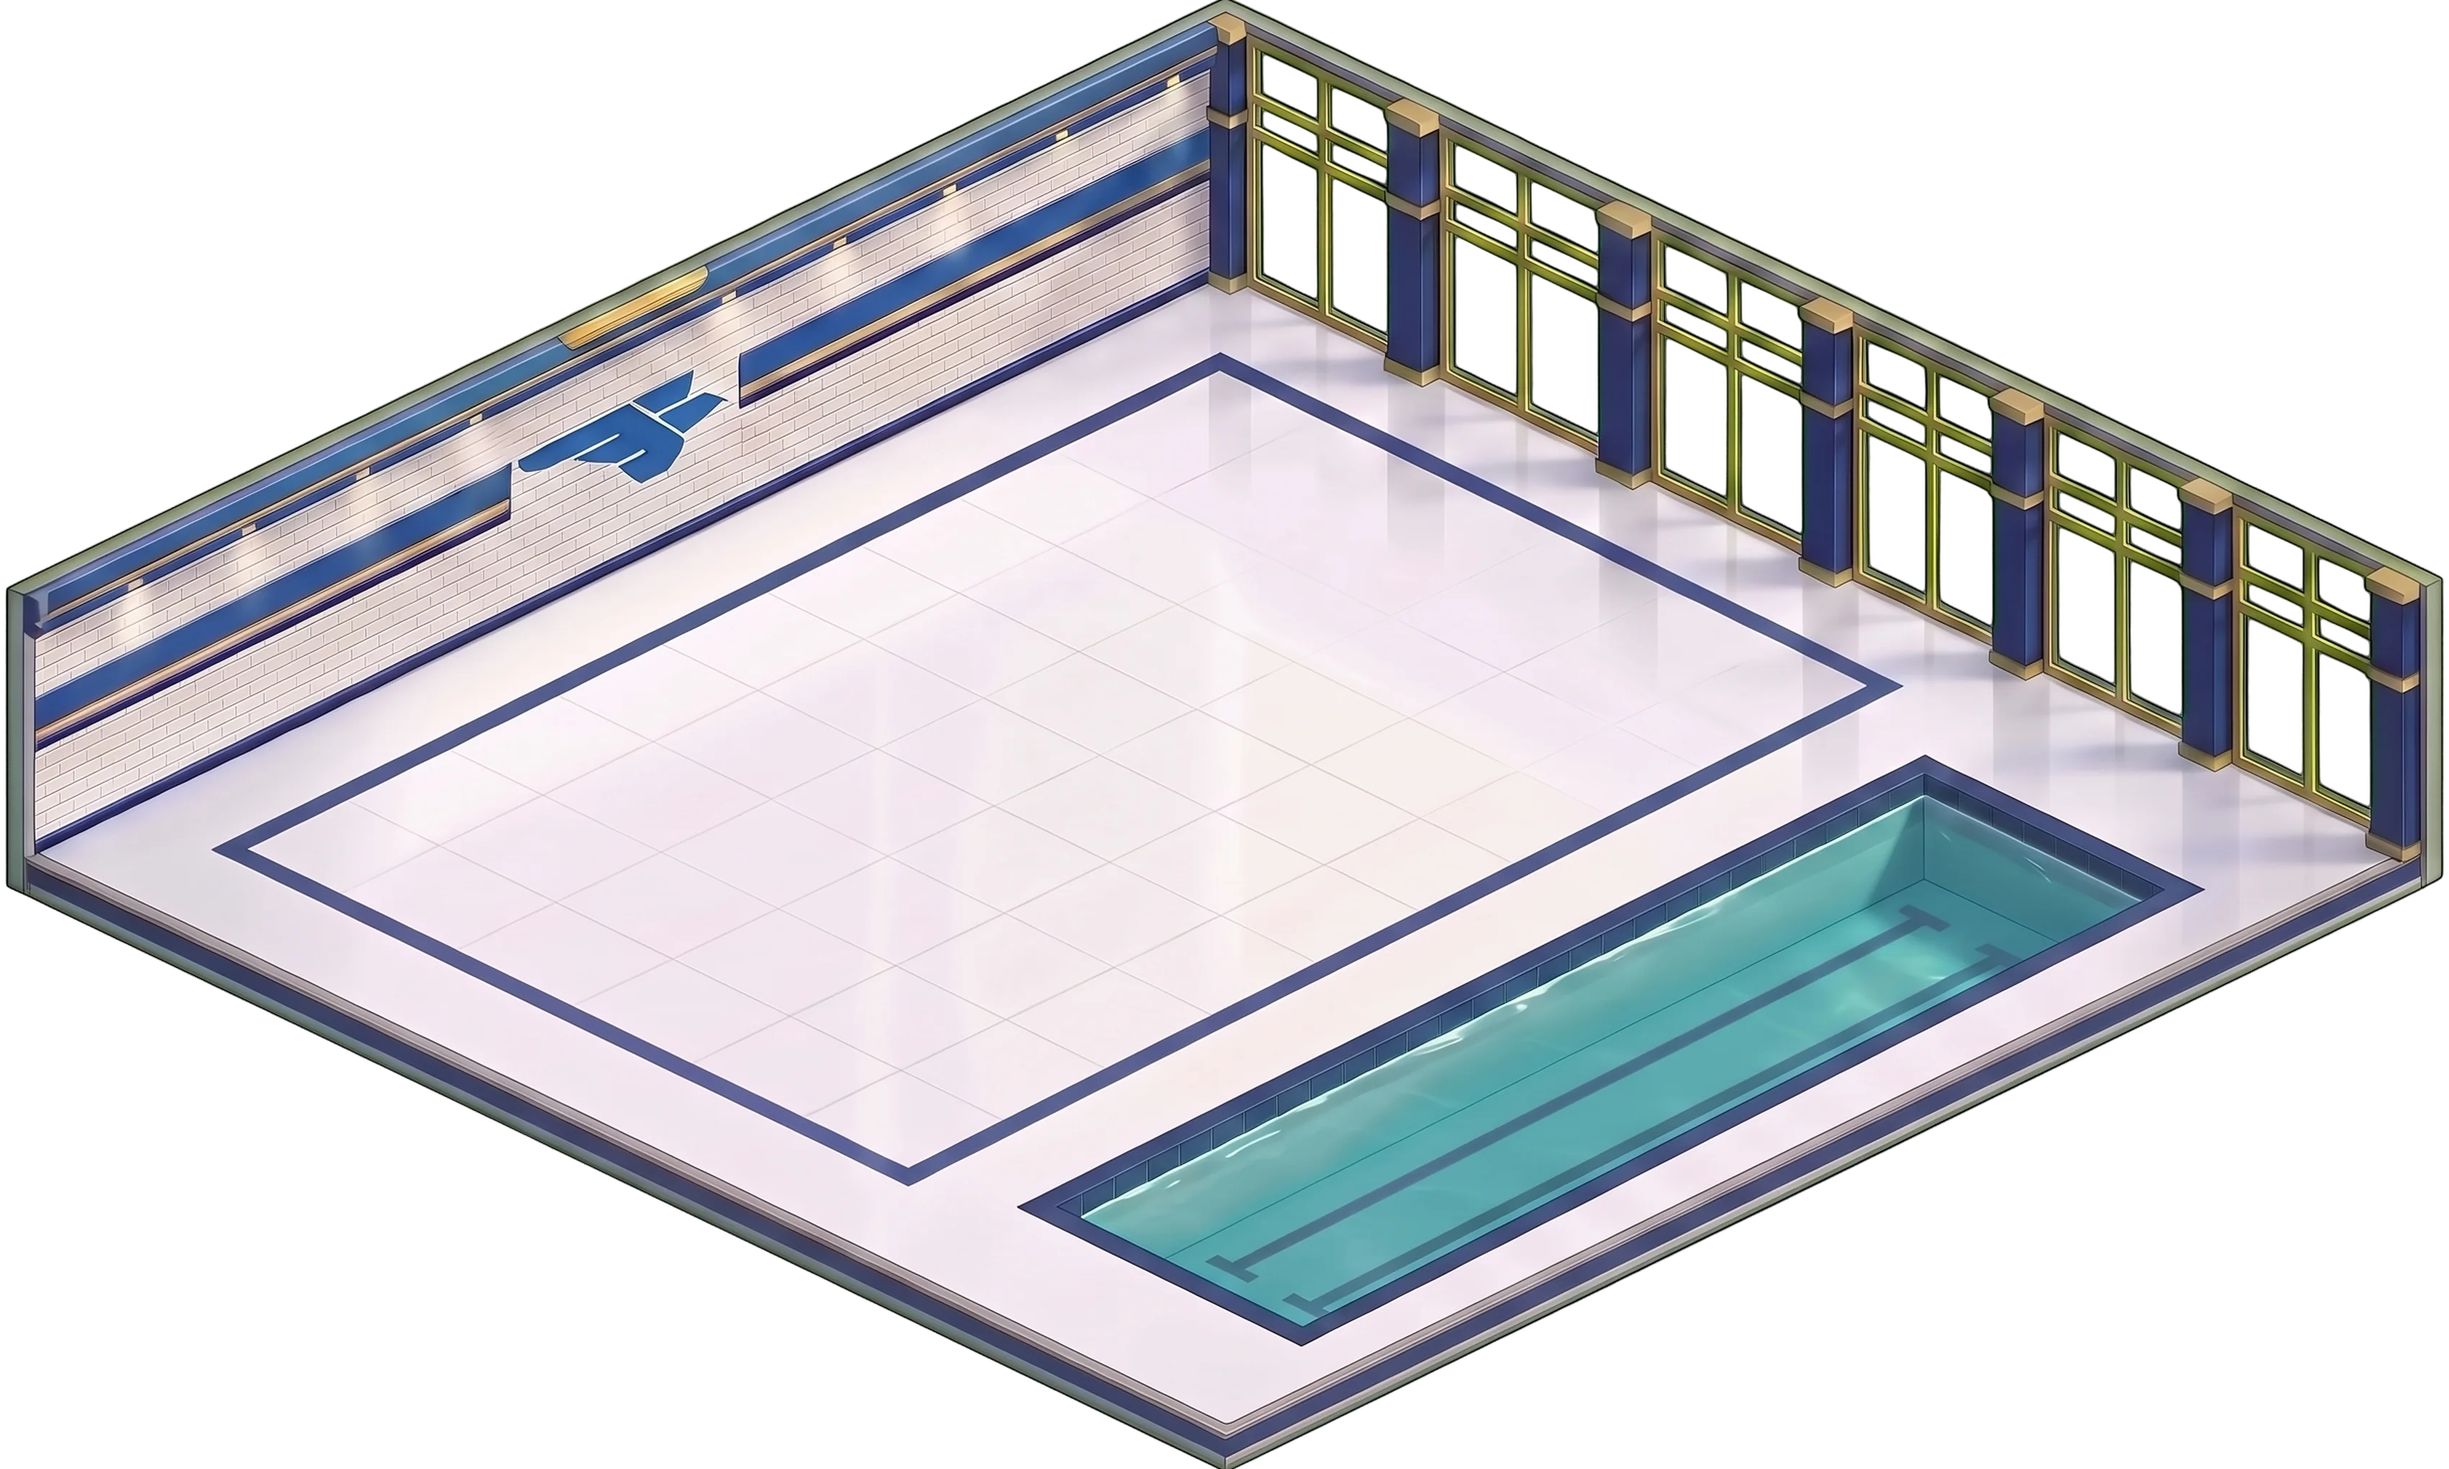
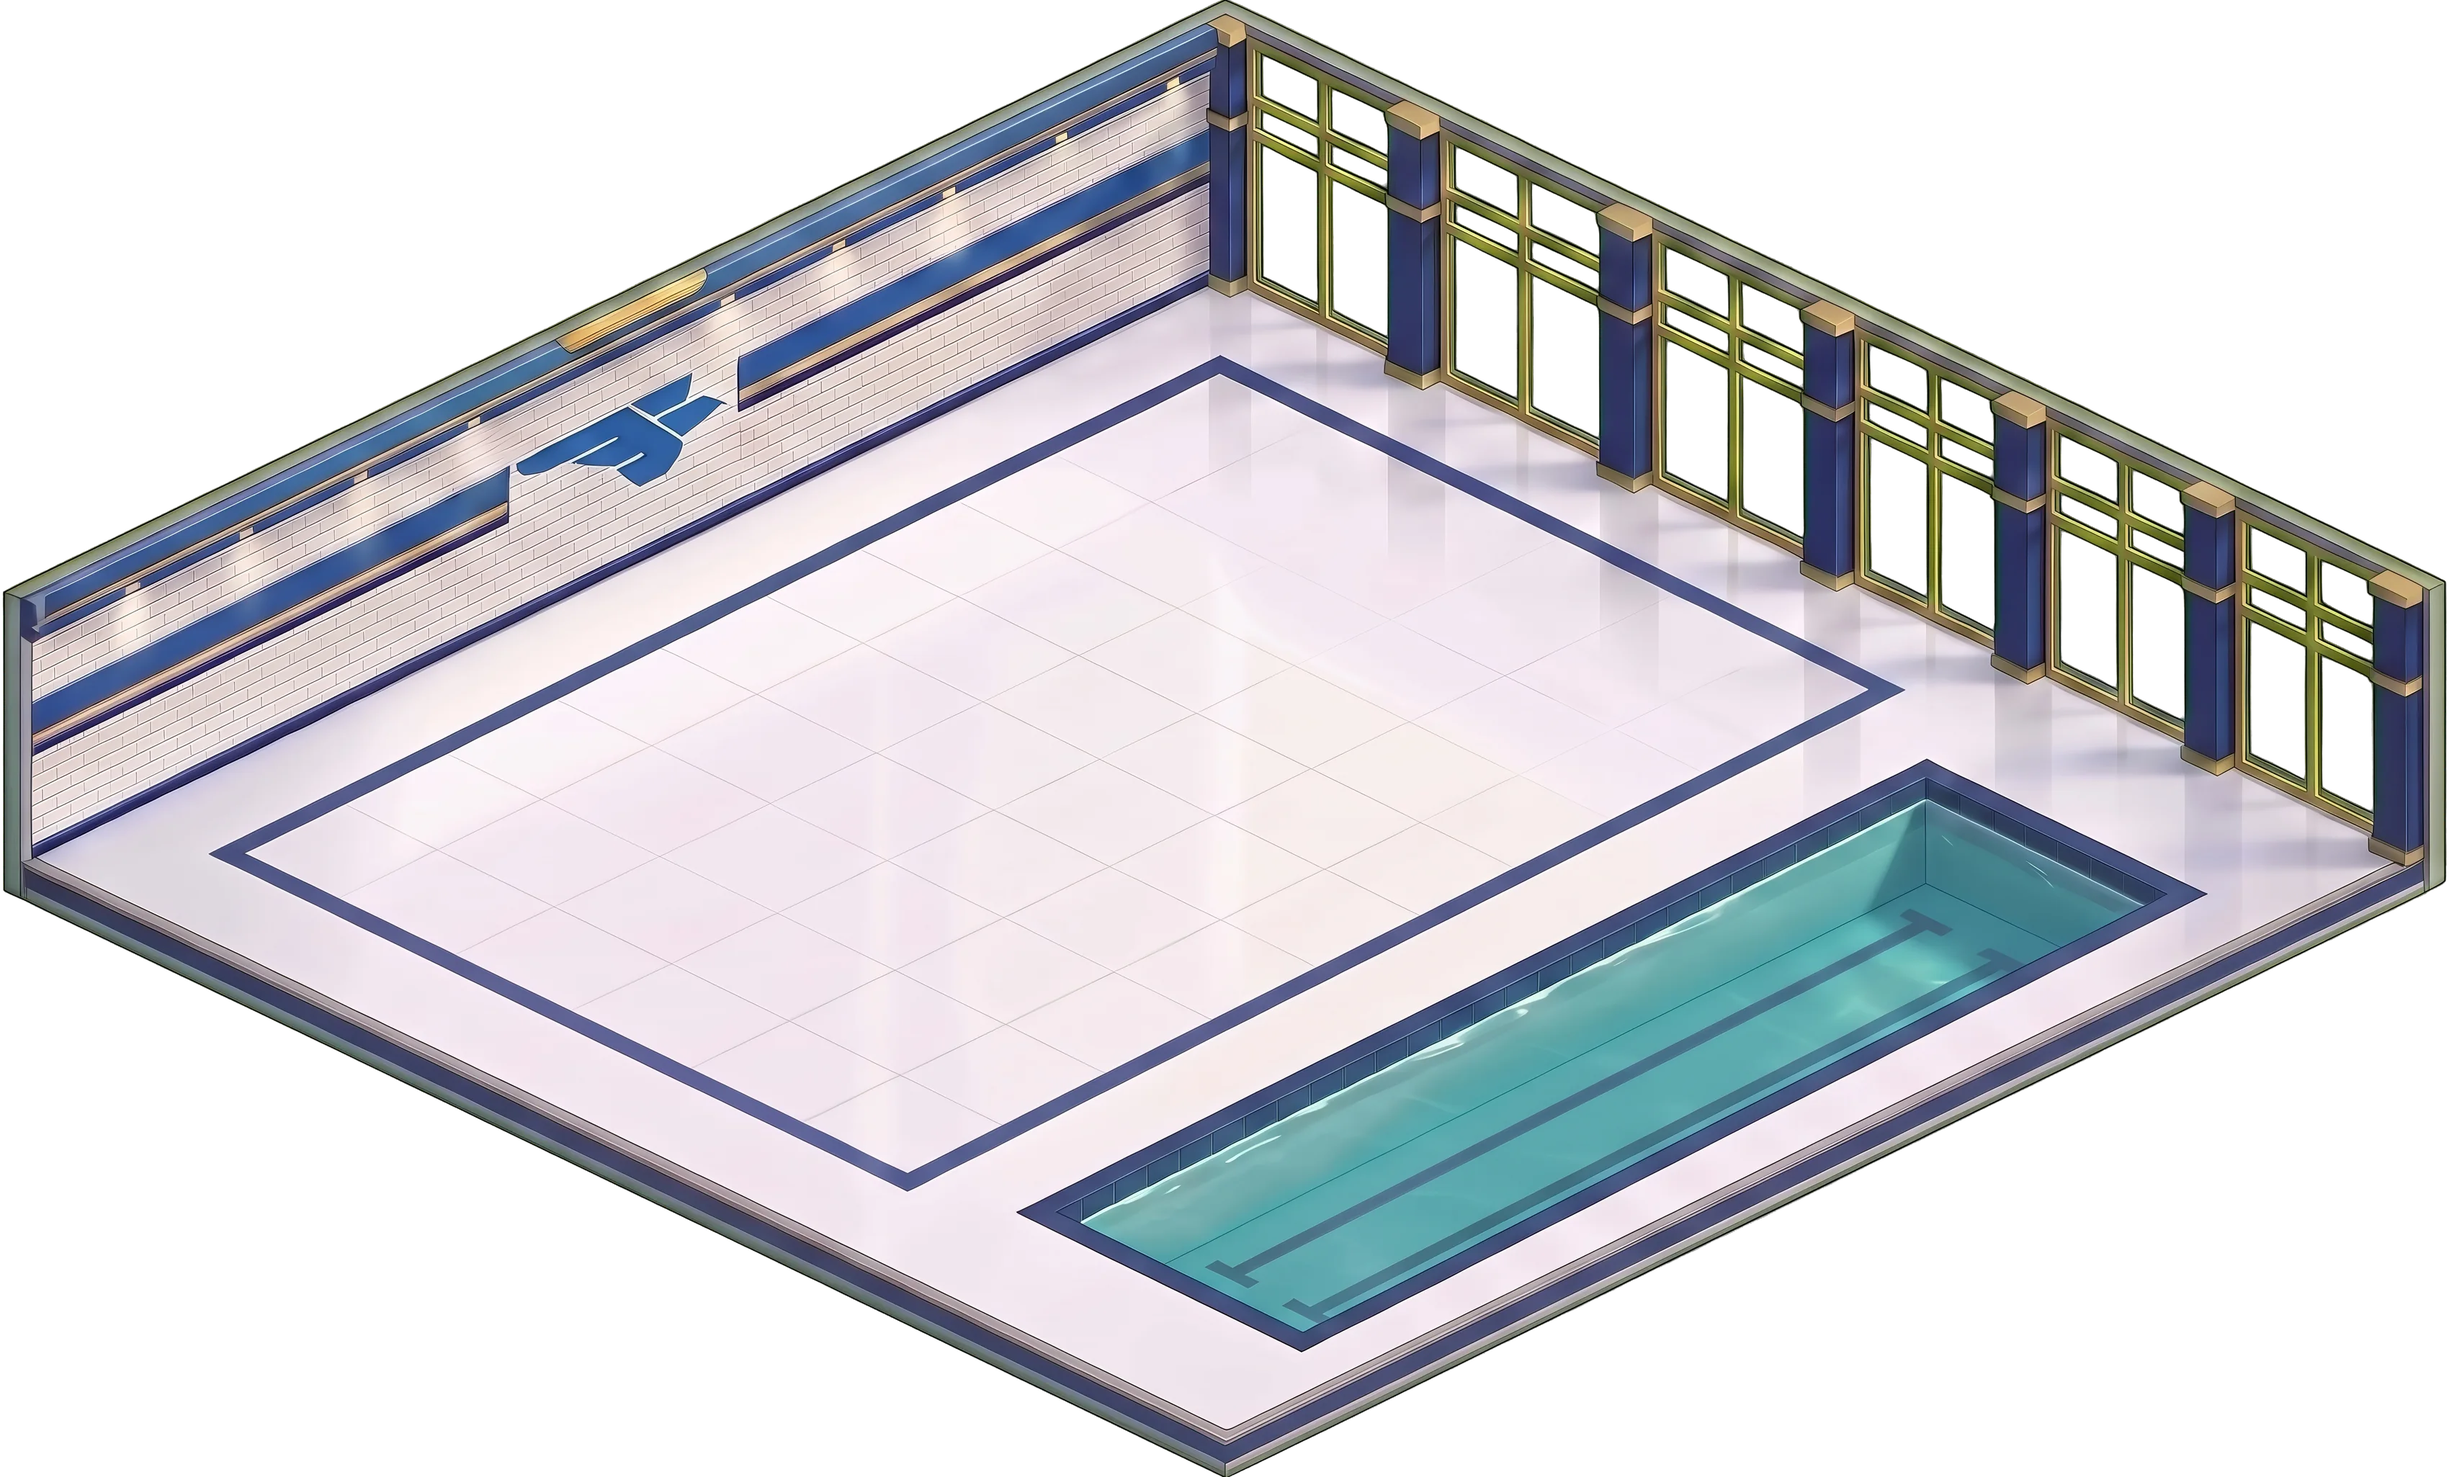
Open the 32 x 32 upgrade for every room to admins
The gym, bike, run and pool now go through the same 16 x 16 and 32 x 32
steps as the locker, using their level 10 pictures. Only admins and the
demo are offered them until all their levels exist.

The pool's picture is the new upscaled one. The cutting script now picks
level 10 by name, since a room's folder can hold several levels.

diff --git a/tests/expansions-sql.test.js b/tests/expansions-sql.test.js
@@ -7,7 +7,7 @@ import { test } from 'node:test';
 import assert from 'node:assert/strict';
 import { readFileSync, readdirSync } from 'node:fs';
 import { fileURLToPath } from 'node:url';
-import { EXPANSION_RULES, expansionReady, isExpanded, expandedSize, nextExpansion, EXPANDED_ART } from '../js/core/expansions.js';
+import { EXPANSION_RULES, expansionReady, isExpanded, expandedSize, nextExpansion, EXPANDED_ART, onSale } from '../js/core/expansions.js';
 import { stageGeom, roomPlacement, roomPctToWorld, envFor } from '../js/core/diorama.js';
 import { ROOM_GEOMETRY } from '../js/core/placement.js';
 import { walletFold } from '../js/core/wallet.js';
@@ -47,13 +47,12 @@ test('the rules: SQL and JS agree', { skip }, async () => {
   assert.deepEqual((await db.query('select public.expansion_rules() as r')).rows[0].r, EXPANSION_RULES);
 });
 
-test('expanding: a ready room once, for its price; the others coming soon', { skip }, async () => {
+test('expanding: a ready room once, for its price', { skip }, async () => {
   const poor = await freshDb(0);
   assert.equal(await code(buy(poor, 'locker')), 'insufficient');
   const db = await freshDb(2000);
   const before = await coins(db);
   assert.equal(await code(buy(db, 'attic')), 'unknown_room');
-  assert.equal(await code(buy(db, 'gym')), 'coming_soon');
   assert.equal(await code(buy(db, 'locker')), 'ok');
   assert.equal(await coins(db), before - EXPANSION_RULES.cost);
   assert.equal(await code(buy(db, 'locker')), 'owned');
@@ -80,17 +79,30 @@ test('how big a room is, and what comes next', () => {
   assert.deepEqual(nextExpansion([], 'locker'), { size: 16, cost: EXPANSION_RULES.cost });
   assert.deepEqual(nextExpansion(r16, 'locker'), { size: 32, cost: EXPANSION_RULES.cost32 });
   assert.equal(nextExpansion(r32, 'locker'), null);
-  assert.equal(nextExpansion([], 'pool'), null);
+  assert.deepEqual(nextExpansion([], 'pool'), { size: 16, cost: EXPANSION_RULES.cost });
 });
 
 test('the JS side: ready rooms, owned rooms, the wallet', () => {
-  assert.ok(expansionReady('locker') && !expansionReady('pool'));
+  assert.ok(expansionReady('locker') && expansionReady('pool'));
+  assert.ok(onSale('locker') && !onSale('pool') && onSale('pool', true), 'players wait for the full set of levels; admins can try it');
   assert.ok(isExpanded([{ room: 'locker' }], 'locker') && !isExpanded([], 'locker'));
   for (const r of EXPANSION_RULES.ready) assert.ok(EXPANDED_ART[r], r);
   const at = new Date().toISOString();
   const base = walletFold({});
   const after = walletFold({ expansions: [{ room: 'locker', cost: EXPANSION_RULES.cost, bought_at: at }] });
   assert.equal(base.coins - after.coins, EXPANSION_RULES.cost);
+});
+
+test('a sport room expands through the same three stages, its water staying out of the way', () => {
+  assert.equal(stageGeom('pool'), 'pool');
+  assert.equal(stageGeom('pool', 16), 'pool-16');
+  assert.equal(stageGeom('pool', 32), 'pool-32');
+  assert.equal(stageGeom('pool', false, true), 'pool-16-tape');
+  assert.equal(ROOM_GEOMETRY['pool-16'].limit, 16);
+  assert.equal(ROOM_GEOMETRY['pool-16-tape'].limit, 8);
+  assert.equal(ROOM_GEOMETRY['pool-32'].limit, undefined);
+  assert.equal(ROOM_GEOMETRY['pool-32'].cols, 32);
+  assert.ok(ROOM_GEOMETRY['pool-32'].blocked.length, 'the water is still blocked');
 });
 
 test('the expanded locker fills its roof inside the railing, centred on it, the tape marking what you own', () => {

diff --git a/js/core/expansions.js b/js/core/expansions.js
@@ -2,19 +2,26 @@
 //
 // Every room starts as the painted 8 × 8 room in the middle of its floor's roof. Expanding it buys
 // the 32 × 32 picture that fills the whole roof, taped off to its back 16 × 16; the last step takes
-// the tape away. Each is bought once per room, for good. Only the locker room has its picture so
-// far; the others say "coming soon".
+// the tape away. Each is bought once per room, for good. Every room has a picture now, but four of
+// them only at level 10, so those are for admins to try until all their levels exist.
 //
-// The server keeps the same rules (supabase/migrations/0032_expansions_32.sql) and is the one that
+// The server keeps the same rules (supabase/migrations/0034_expansions_all_rooms.sql) and is the one that
 // charges: tests/expansions-sql.test.js holds the two together.
+
+import { ROOM32 } from './room32-art.js';
 
 export const EXPANSION_RULES = {
   cost: 1000,                                        // coins, each room: 8 × 8 to 16 × 16
   cost32: 5000,                                      // and 16 × 16 to 32 × 32
   rooms: ['locker', 'gym', 'bike', 'run', 'pool'],   // the order the shop lists them in
-  ready: ['locker'],                                 // the rooms that can go to 16 × 16
-  ready32: ['locker'],                               // and to 32 × 32
+  ready: ['locker', 'gym', 'bike', 'run', 'pool'],   // the rooms that can go to 16 × 16
+  ready32: ['locker', 'gym', 'bike', 'run', 'pool'], // and to 32 × 32
 };
+
+// the rooms every player is offered; the rest wait for their full set of levels
+const ON_SALE = ['locker'];
+/** Is this room offered to this player? Admins and the demo can try them all. */
+export const onSale = (room, tester = false) => tester || ON_SALE.includes(room);
 
 // Buying 32 × 32 waits for supabase/migrations/0032_expansions_32.sql to be applied to the live
 // database: turn this on once it has been.
@@ -38,7 +45,10 @@ export function nextExpansion(rows, room, allow32 = true) {
 }
 
 /** The big room's picture for a room that has one (all 32 × 32 of it, or taped off). */
-export const EXPANDED_ART = { locker: 'icons/Pixelart/NEW/LOCKER/model-32.webp' };
+export const EXPANDED_ART = {
+  locker: 'icons/Pixelart/NEW/LOCKER/model-32.webp',
+  gym: ROOM32.gym.src, bike: ROOM32.bike.src, run: ROOM32.run.src, pool: ROOM32.pool.src,
+};
 
 /**
  * Rooms that show their big picture from the start, taped off to the 8 × 8 in its back corner

diff --git a/js/app/expansion-view.js b/js/app/expansion-view.js
@@ -1,11 +1,11 @@
 // expansion-view.js — the Expand window (docs/ROOMS3D.md): every room, and taking it from its
-// painted 8 × 8 room to 16 × 16 and then 32 × 32, which fills its floor's whole roof. Only the
-// locker room has its big picture so far; the others say "coming soon".
+// painted 8 × 8 room to 16 × 16 and then 32 × 32, which fills its floor's whole roof. Rooms that
+// aren't on sale yet (expansions.js) say "coming soon", except to admins and in the demo.
 
 import { esc } from './ui.js';
 import { svg } from '../core/icons.js';
 import { t, fmtNum } from '../core/i18n.js';
-import { EXPANSION_RULES, expansionReady, expandedSize, nextExpansion, EXPANDED_ART, SIZE_32_LIVE } from '../core/expansions.js';
+import { EXPANSION_RULES, expansionReady, expandedSize, nextExpansion, EXPANDED_ART, SIZE_32_LIVE, onSale } from '../core/expansions.js';
 import { roomArt } from '../core/placement.js';
 import { myExpansions, expansionsOpen, buyExpansion, walletNow, gearError } from './gear-state.js';
 import { openLayer, closeLayer } from './nav.js';
@@ -23,9 +23,10 @@ export function openExpansions(workouts = []) {
     const coins = walletNow(workouts).coins;
     const rows = EXPANSION_RULES.rooms.map((room) => {
       const size = expandedSize(myExpansions(), room);
-      const step = nextExpansion(myExpansions(), room, SIZE_32_LIVE || isDemo());
+      const offered = onSale(room, isChestAdmin() || isDemo());
+      const step = offered ? nextExpansion(myExpansions(), room, SIZE_32_LIVE || isDemo()) : null;
       const done = size === 32;
-      const ready = expansionReady(room);
+      const ready = offered && expansionReady(room);
       const pic = ready ? EXPANDED_ART[room] : roomArt(room, 1);
       const action = done
         ? `<span class="xp-owned">${svg('check')}${esc(t('cp.expand.owned'))}</span>`

diff --git a/js/core/placement.js b/js/core/placement.js
@@ -59,10 +59,15 @@ export const ROOM_SIZE = {
   'locker-square': [1100, 995], 'locker-landscape': [2200, 1677], 'locker-32': [3400, 2053], 'locker-16': [3400, 2053], 'locker-16-tape': [3400, 2053],
 };
 
-// the new 32 × 32 rooms, one level so far: shown only with ?rooms32=1 until the full set exists
+// the new 32 × 32 rooms, one level so far: `-big` is the ?rooms32=1 preview, and the others are the
+// same three stages of expanding as the locker's (it keeps the picture it has)
 for (const [room, r] of Object.entries(ROOM32)) {
-  ROOM_GEOMETRY[`${room}-big`] = { ...floor(r.back, r.right, r.left, 32, 32, r.blocked), share: r.share };
+  const g = { ...floor(r.back, r.right, r.left, 32, 32, r.blocked), share: r.share };
+  ROOM_GEOMETRY[`${room}-big`] = g;
   ROOM_SIZE[`${room}-big`] = r.size;
+  if (room === 'locker') continue;
+  Object.assign(ROOM_GEOMETRY, { [`${room}-32`]: g, [`${room}-16`]: { ...g, limit: 16 }, [`${room}-16-tape`]: { ...g, limit: 8 } });
+  Object.assign(ROOM_SIZE, { [`${room}-32`]: r.size, [`${room}-16`]: r.size, [`${room}-16-tape`]: r.size });
 }
 
 // levels with no art yet fall back to the nearest one below (the gym has no 7)

diff --git a/js/core/diorama.js b/js/core/diorama.js
@@ -60,13 +60,14 @@ export const MAX_ZOOM = 2.5; // × the smallest zoom, in a world with no zoom of
 export const STAGE_ROOMS = ['bike', 'pool', 'run', 'gym', 'locker'];
 /**
  * A room's art geometry on the stage: the painted 8 × 8 room (the locker's is the square one), or
- * once the room is expanded (expansions.js; only the locker can be yet) its 32 × 32 picture, all of
+ * once the room is expanded (expansions.js) its 32 × 32 picture, all of
  * it when `size` is 32 and taped off to its back 16 × 16 when it isn't; `taped` shows it taped off
  * to the back 8 × 8.
  */
 export const stageGeom = (room, size = false, taped = false) => {
-  if (room === 'locker') return taped ? 'locker-16-tape' : size === 32 ? 'locker-32' : size ? 'locker-16' : 'locker-square';
-  return room;
+  if (taped) return `${room}-16-tape`;
+  if (size) return size === 32 ? `${room}-32` : `${room}-16`;
+  return room === 'locker' ? 'locker-square' : room;
 };
 
 /** The middle of a world's plot (or slab). */

diff --git a/js/core/room32-art.js b/js/core/room32-art.js
@@ -4,21 +4,21 @@ export const ROOM32 = {
     "src": "icons/Pixelart/NEW/LOCKER/big-10.webp",
     "size": [
       3400,
-      2042
+      2040
     ],
     "back": [
       49.81,
-      18.81
+      18.58
     ],
     "right": [
-      97.1,
-      57.39
+      96.75,
+      56.91
     ],
     "left": [
-      2.52,
-      57.39
+      2.87,
+      56.91
     ],
-    "share": 0.8796,
+    "share": 0.873,
     "blocked": []
   },
   "gym": {
@@ -88,21 +88,21 @@ export const ROOM32 = {
     "src": "icons/Pixelart/NEW/POOL/big-10.webp",
     "size": [
       3400,
-      2040
+      2051
     ],
     "back": [
       50.24,
-      20.0
+      20.09
     ],
     "right": [
-      99.07,
-      58.62
+      99.2,
+      58.59
     ],
     "left": [
-      1.14,
-      58.44
+      1.02,
+      58.42
     ],
-    "share": 0.9108,
+    "share": 0.913,
     "blocked": [
       [
         22,

diff --git a/sw.js b/sw.js
@@ -1,7 +1,7 @@
 // sw.js — offline-first service worker. Precaches the app shell and serves
 // cache-first, falling back to the network (and to index.html for navigations).
 
-const CACHE = 'triquest-v118';
+const CACHE = 'triquest-v119';
 const ASSETS = [
   './',
   './index.html',

diff --git a/tools/cut-rooms-32.py b/tools/cut-rooms-32.py
@@ -41,7 +41,7 @@ def key(path):
 def main(src):
     out = {}
     for room, (back, right, left) in FLOORS.items():
-        path = glob.glob(os.path.join(src, room.upper(), '*.jpg'))[0]
+        path = glob.glob(os.path.join(src, room.upper(), f'{room}-32-level-10.*'))[0]
         im = key(path)
         k = im.width / 2000
         a = np.asarray(im.getchannel('A')) > 128

diff --git a/docs/CITY.md b/docs/CITY.md
@@ -239,7 +239,7 @@ The parcel bubble sits on a small layer of its own over the 3D canvas, `.dg-fron
 
 ## Previewing the 32 x 32 rooms
 
-Only level 10 exists so far, so these rooms stay hidden from players. Open the app with `?rooms32=1` to see them on that device, and `?rooms32=0` to turn them off. `tools/cut-rooms-32.py` cuts them and writes `js/core/room32-art.js`.
+Only level 10 exists so far, so these rooms stay hidden from players. Open the app with `?rooms32=1` to see them on that device, and `?rooms32=0` to turn them off. Admins can also buy the real upgrade for any room from the Expand window. `tools/cut-rooms-32.py` cuts them and writes `js/core/room32-art.js`.
 
 ## Editing the lobby
 
